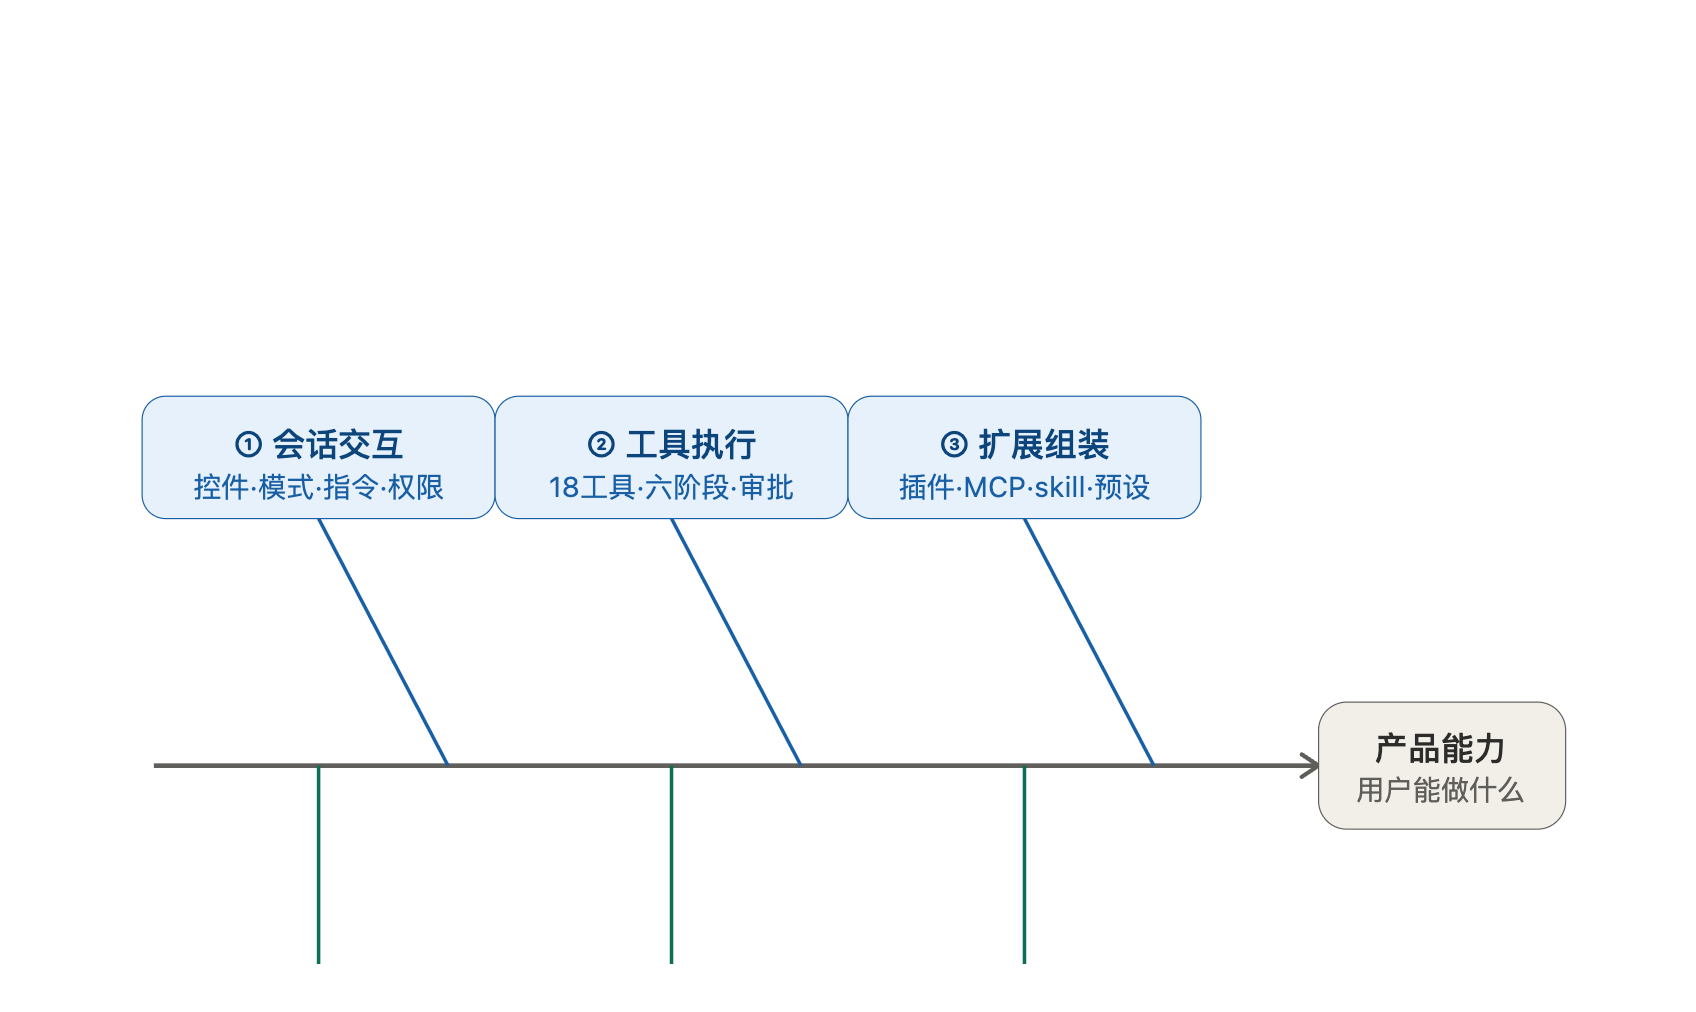
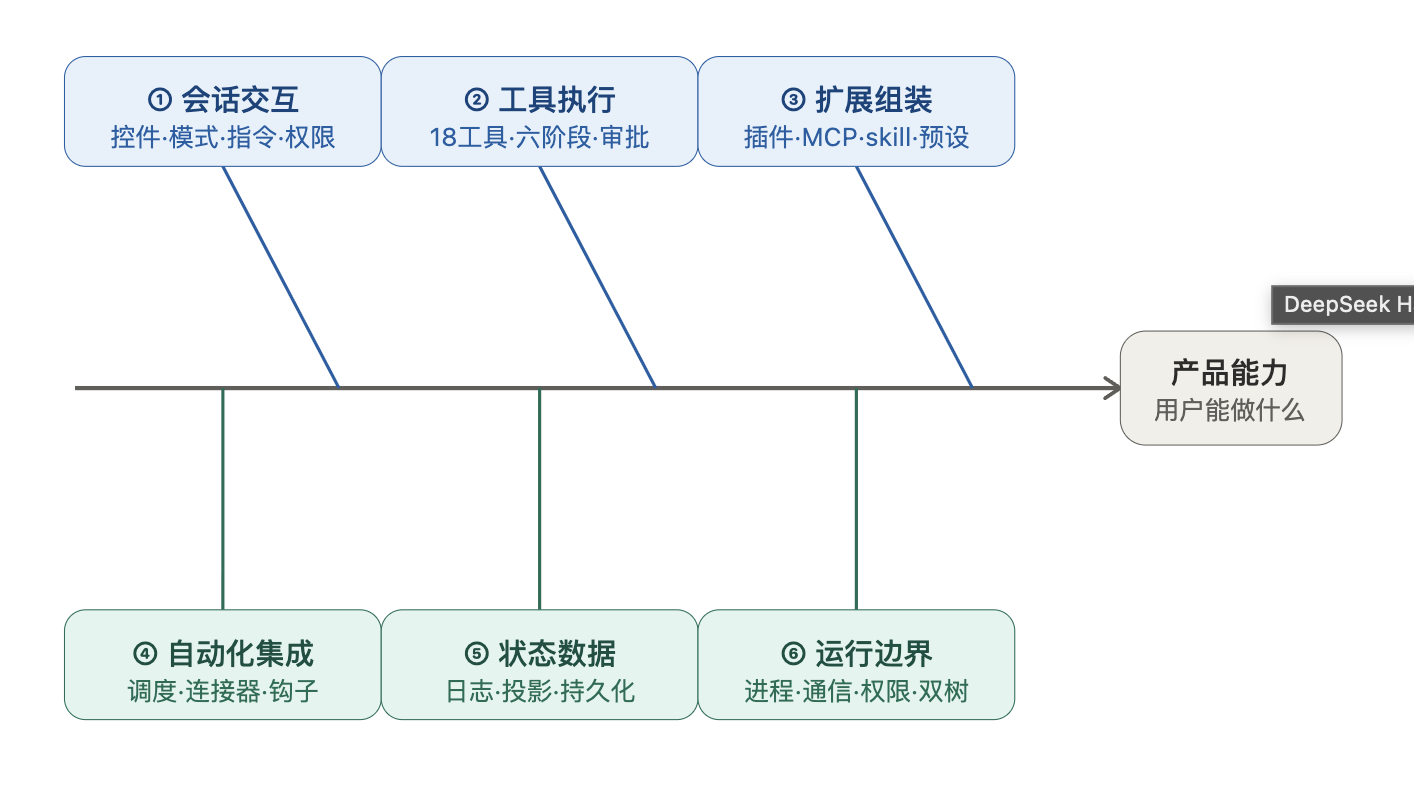
docs(product): 更新鱼骨配图为六根骨完整版

diff --git a/docs/product/module-fishbone.md b/docs/product/module-fishbone.md
@@ -8,7 +8,7 @@
 
 ![子模块鱼骨图](module-fishbone-diagram.png)
 
-截图中上方三根骨带文字标签，下方三根骨只显示竖线，文字标签未出现在截图内。下方三根骨的名称与功能见本文对应章节。
+截图显示六根主骨及其文字标签。
 
 ## 分类定义
 
@@ -118,4 +118,4 @@
 
 机制锚点与挂靠功能的类别依据复用关系判定。同一功能在不同分析目标下可归入不同类别。
 
-源码位置优先使用已核实的行号。标到包或目录级的条目未逐行核对。图中下方三根骨的标签未在截图内出现。
+源码位置优先使用已核实的行号。标到包或目录级的条目未逐行核对。

diff --git a/CHANGELOG.md b/CHANGELOG.md
@@ -2,6 +2,11 @@
 
 格式遵循 Keep a Changelog。版本规则见 `AGENTS.md`。
 
+## v0.4.1 — 2026-11-22
+
+- 替换 `docs/product/module-fishbone-diagram.png` 为六根骨齐全的版本。
+- 移除文档中关于下方三根骨标签被裁切的说明。
+
 ## v0.4.0 — 2026-11-22
 
 - 新增子模块索引类文档：`docs/product/module-fishbone.md`。按六个用户能力域划分功能，标注机制锚点与挂靠功能、复用机制和源码位置。
